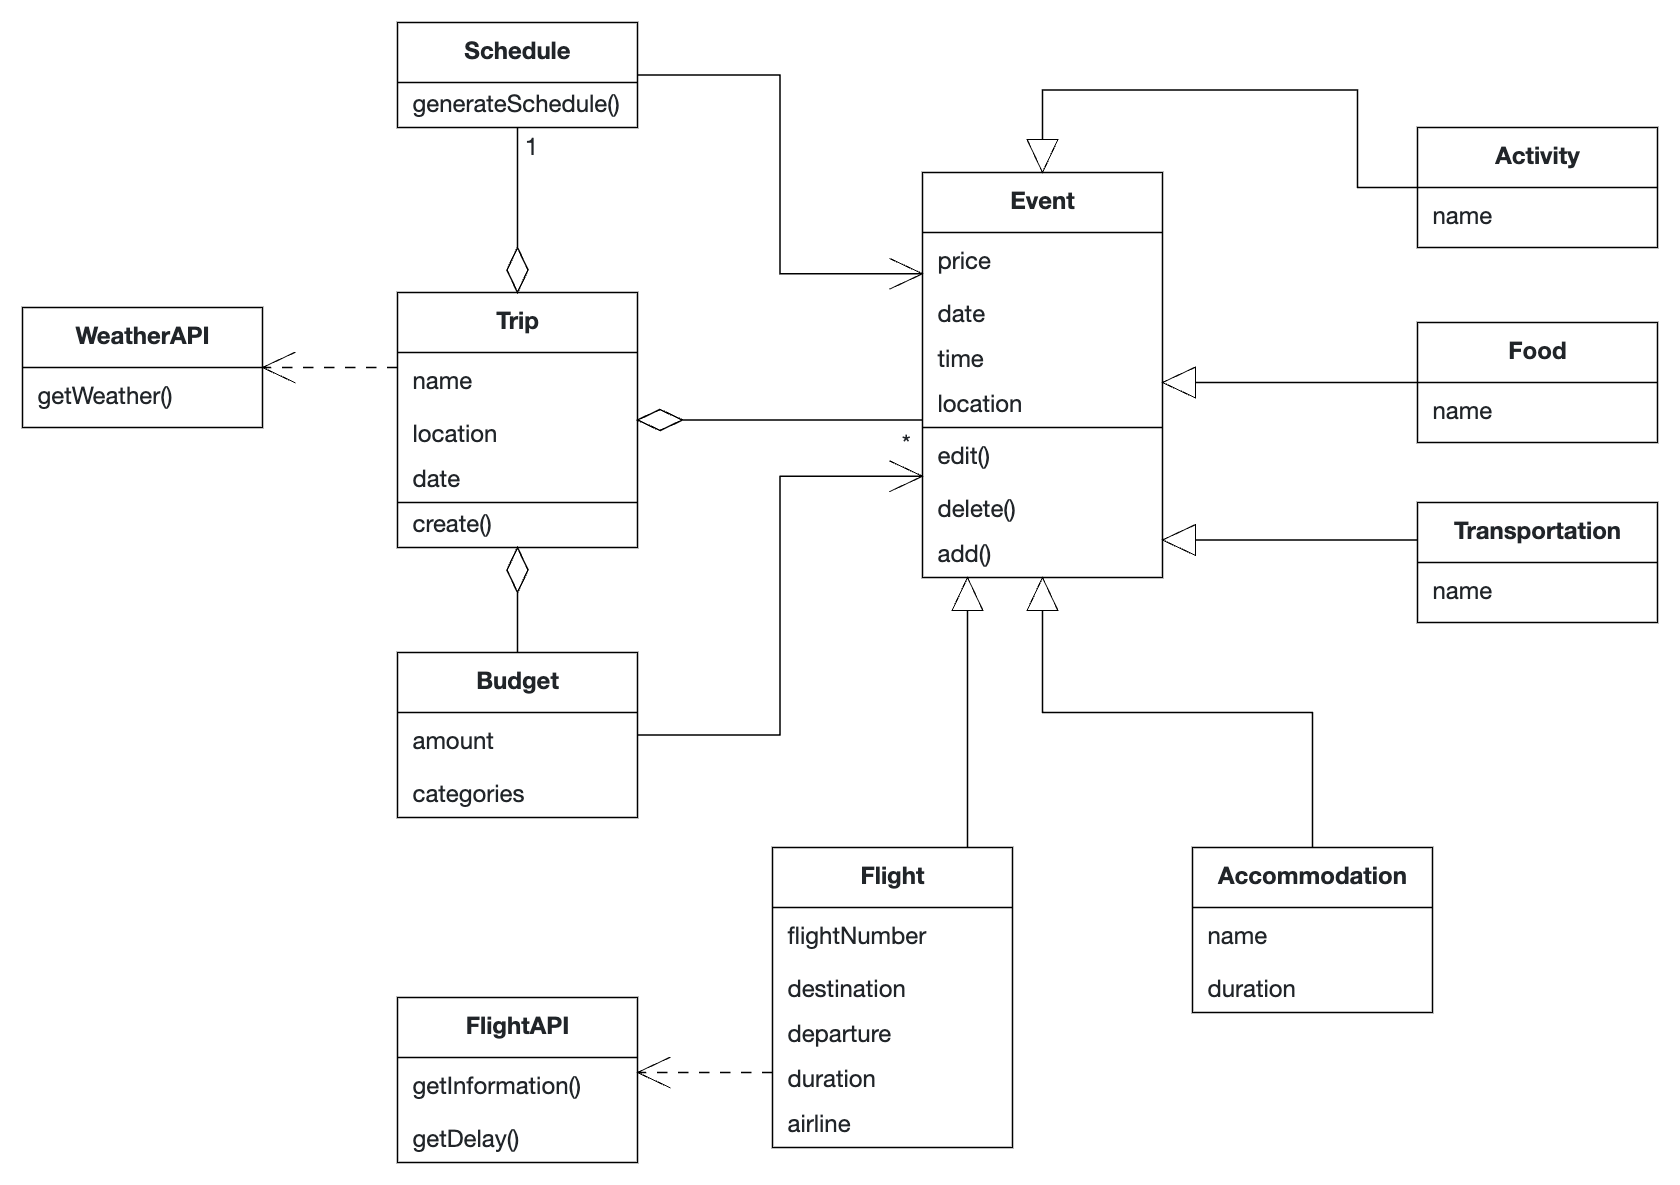
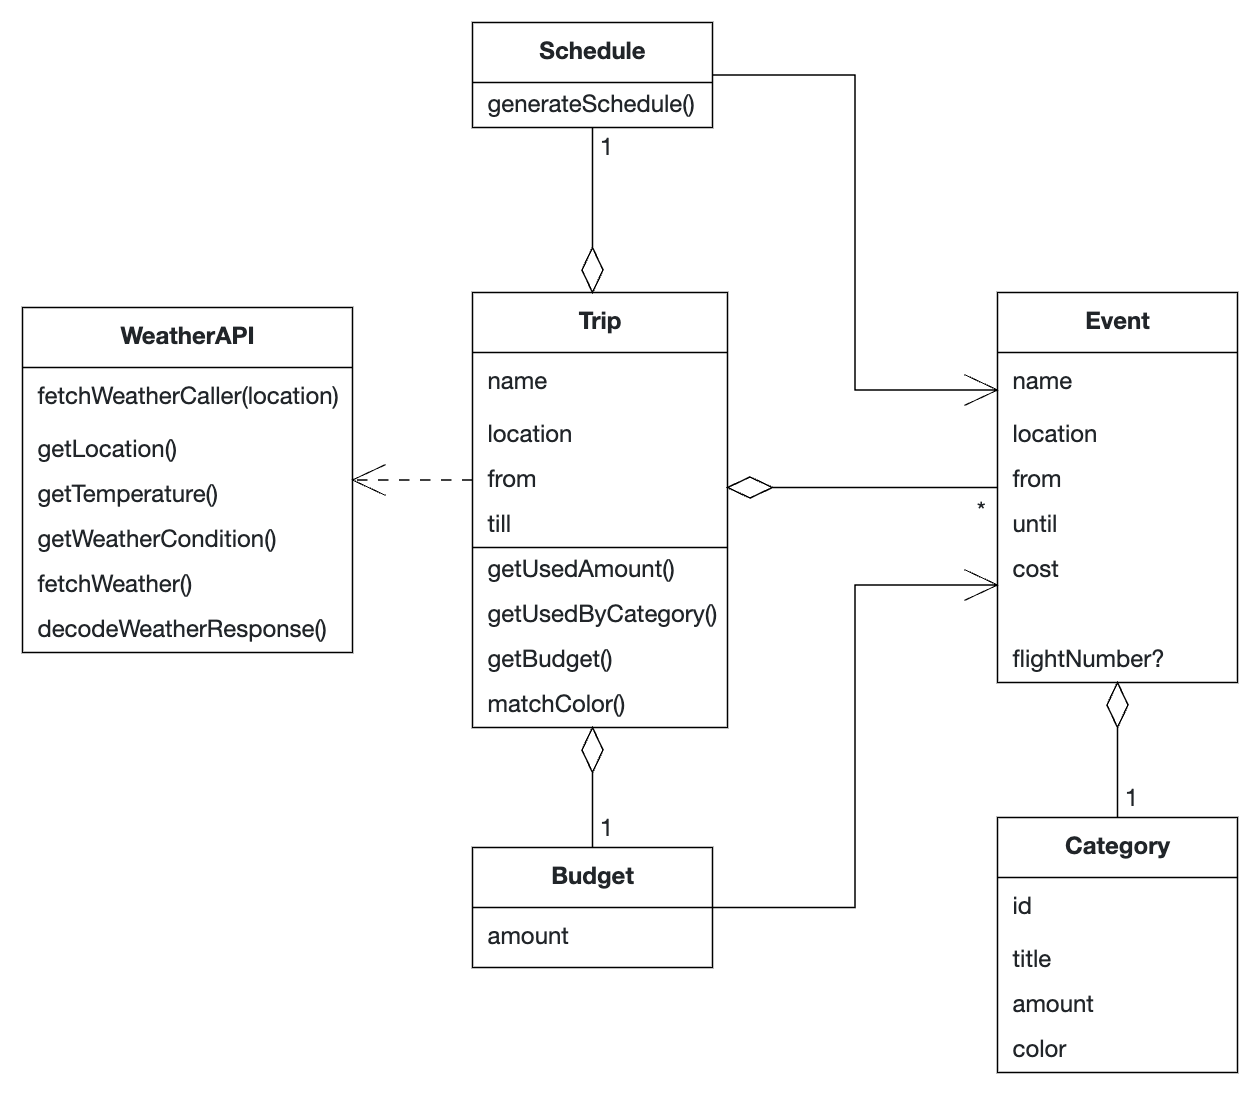
Review AOL and System Design, add Comments

diff --git a/TripPlanner/TripPlanner/TripPlannerModel/Model Object/Trip.swift b/TripPlanner/TripPlanner/TripPlannerModel/Model Object/Trip.swift
@@ -9,6 +9,7 @@ import Foundation
 import SwiftData
 import SwiftUI
 
+///Model for a trip
 @Model
 final class Trip {
     var name: String
@@ -26,6 +27,9 @@ final class Trip {
         self.budget = budget
     }
     
+    /**
+     returns the summed up amount of all event costs of the given trip
+     */
     func getUsedAmount() -> Double {
         var used = 0.0
         for event in events {
@@ -34,6 +38,9 @@ final class Trip {
         return used
     }
     
+    /**
+     returns an array of all used categories of the trip including the total cost of this category
+     */
     func getUsedByCategory() -> [Category] {
         var categoriesDict: [String: Category] = [:]
         
@@ -56,10 +63,16 @@ final class Trip {
         return Array(categoriesDict.values)
     }
     
+    /**
+     returns the defined budget of the trip
+     */
     func getBudget() -> Double {
         return budget
     }
     
+    /**
+     matches the category name to the fitting color for graph representation
+     */
     func matchColor(category: String) -> Color {
         switch category {
         case "Flight": return .red

diff --git a/TripPlanner/TripPlanner/API Subsystem/WeatherAPI.swift b/TripPlanner/TripPlanner/API Subsystem/WeatherAPI.swift
@@ -7,7 +7,7 @@
 
 import Foundation
 
-
+///Class for interacting with the Weather API and fetch the corresponding Data
 class WeatherAPI {
     ///Weather apiKey and URL for fetching Weather Data based on Location
     private let apiKey: String = "a880585761d5deda9a7f82a4fbf2e08c"

diff --git a/TripPlanner/TripPlanner/MainView/HomeView/TripSectionView/TripSectionViewModel.swift b/TripPlanner/TripPlanner/MainView/HomeView/TripSectionView/TripSectionViewModel.swift
@@ -8,6 +8,7 @@
 import SwiftUI
 import SwiftData
 
+///View Model for the TripSectionView
 @Observable class TripSectionViewModel {
     let type: String
     let calendar = Calendar.current

diff --git a/TripPlanner/TripPlanner/Trip Subsystem/ScheduleView/AddEventView/AddEventViewModel.swift b/TripPlanner/TripPlanner/Trip Subsystem/ScheduleView/AddEventView/AddEventViewModel.swift
@@ -10,6 +10,7 @@ import Foundation
 import SwiftUI
 import SwiftData
 
+///View Model for the AddEventView
 @Observable class AddEventViewModel {
     var modelContext: ModelContext
     

diff --git a/TripPlanner/TripPlanner/MainView/HomeView/AddTripView/AddTripViewModel.swift b/TripPlanner/TripPlanner/MainView/HomeView/AddTripView/AddTripViewModel.swift
@@ -8,6 +8,7 @@
 import SwiftUI
 import SwiftData
 
+///View Model for the AddTrip View
 @Observable class AddTripViewModel {
     var modelContext: ModelContext
     

diff --git a/TripPlanner/TripPlanner/TripPlannerModel/Model Object/BudgetManager.swift b/TripPlanner/TripPlanner/TripPlannerModel/Model Object/BudgetManager.swift
@@ -8,6 +8,7 @@
 import Foundation
 import SwiftData
 
+///The Class for calculating the different Budget data
 @Model
 class BudgetManager {
     var trip: Trip

diff --git a/TripPlanner/TripPlanner/Trip Subsystem/MapView/MapViewModel.swift b/TripPlanner/TripPlanner/Trip Subsystem/MapView/MapViewModel.swift
@@ -9,6 +9,7 @@
 import Foundation
 import SwiftData
 
+///View Model for the MapView
 @Observable class MapViewModel {
     var trip: Trip
 

diff --git a/TripPlanner/TripPlanner/TripPlannerModel/Model Object/Event.swift b/TripPlanner/TripPlanner/TripPlannerModel/Model Object/Event.swift
@@ -8,6 +8,7 @@
 import Foundation
 import SwiftData
 
+///Model for an Event
 @Model
 final class Event {
     var name: String

diff --git a/README.md b/README.md
@@ -33,7 +33,7 @@ It should be able to give an overview of the upcoming trip, including the budget
 
 It should be able to create a trip plan accordingly and show the manually added budget of the user in each of the different categories.
 
-Furthermore it should fetch data like flight information and weather for the trip and give important notifications on upcoming events and unplanned changes, like delayed flights.
+Furthermore it should fetch data like the weather for the trip and give important notifications on upcoming events and unplanned changes, like delayed flights.
 
 At last, it should summarize the trip afterwards with a comparison between planned spendings and actual spendings.
 
@@ -43,7 +43,7 @@ The app should:
 - show an overview of upcoming trips with budget and schedule
 - handle manual user input with budget for all possible events including: flights, accommodation, transportation, visa and food
 - display schedule of flights, check-in and check-out of hotels using API
-- display and fetch of local weather and flight Information using API
+- display and fetch of local weather using API
 - summarize the trip, including the used budget and activites, afterwards
 
 
@@ -66,6 +66,4 @@ The app should:
 | 2 | Add Event creation UI                     |   ✓  |
 | 2 | See Schedule of Trip                      |   ✓  |
 | 2 | Fetch WeatherAPI                          |   ✓  |
-| 3 | Fetch FlightAPI                           |  (x) |
 | 3 | Event Detail View                         |   ✓  |
-| 3 | Event Locations in Map                    |  (x) |
